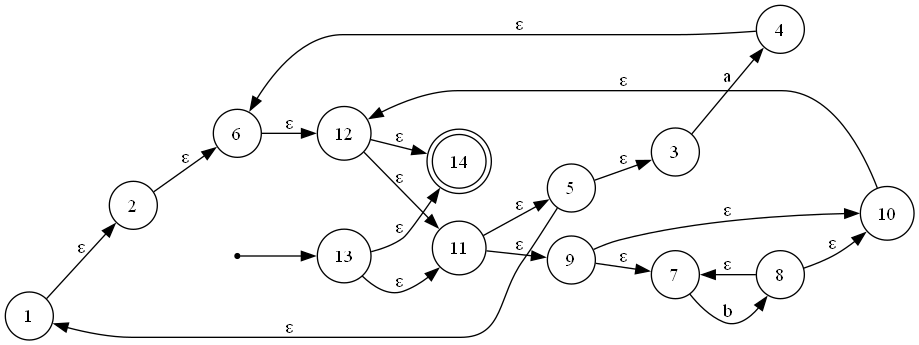
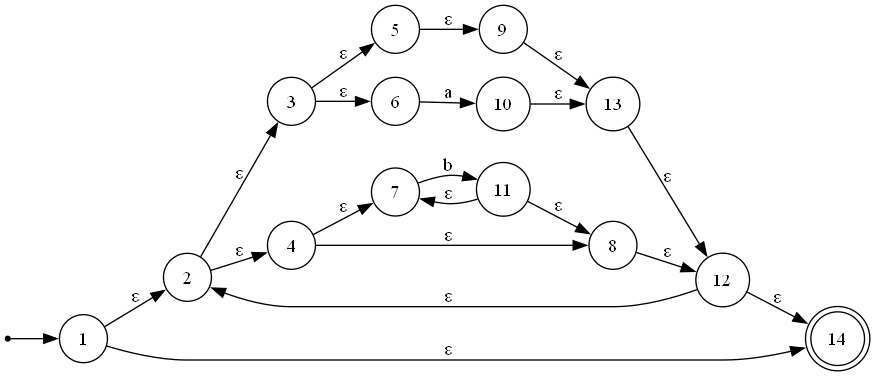
Corrección de algoritmo y validación de estados para correcta inicialización

diff --git a/lab4.py b/lab4.py
@@ -1,13 +1,15 @@
 #!/usr/bin/env python3
 """
 Infix → (desugar + ?) → insertar '.' → Shunting-Yard (postfix) →
-AST → AFN por Thompson → render árbol y AFN → simular AFN con w.
+AST → AFN por Thompson → validación/renumeración → render árbol y AFN → simular AFN con w.
 
 Uso:
     python shunting_yard_tree.py expresiones.txt [cadenas.txt]
-Genera PNGs:
-    tree_simplified_i.png, nfa_i.png
-e imprime 'sí' / 'no' para cada (r, w).
+
+Salidas por línea:
+    tree_simplified_<i>.png    (AST)
+    nfa_<i>.png                (AFN ya renumerado: start=1, accept=último)
+    consola: 'sí' / 'no'
 """
 import sys
 
@@ -19,16 +21,18 @@ def expand_plus_question(expr: str) -> str:
     i, n, out = 0, len(expr), ""
 
     def is_escaped(pos):
-        cnt, k = 0, pos-1
+        cnt, k = 0, pos - 1
         while k >= 0 and expr[k] == '\\':
-            cnt += 1; k -= 1
+            cnt += 1
+            k -= 1
         return (cnt % 2) == 1
 
     while i < n:
-        if expr[i] == '\\' and i+1 < n:          # \X
+        if expr[i] == '\\' and i + 1 < n:        # \X
             token = expr[i:i+2]; i += 2
-        elif expr[i] == '(' and not is_escaped(i):# ( ... )
-            start, depth = i, 1; i += 1
+        elif expr[i] == '(' and not is_escaped(i):  # ( ... )
+            start, depth = i, 1
+            i += 1
             while i < n and depth > 0:
                 if expr[i] == '(' and not is_escaped(i): depth += 1
                 elif expr[i] == ')' and not is_escaped(i): depth -= 1
@@ -46,54 +50,61 @@ def expand_plus_question(expr: str) -> str:
             out += token
     return out
 
+
 # ===================== Paso 1: insertar concatenación explícita '.' =========
 def insert_concatenation(expr: str):
     tokens, i = [], 0
     while i < len(expr):
-        if expr[i] == '\\' and i+1 < len(expr):
+        if expr[i] == '\\' and i + 1 < len(expr):
             tokens.append(expr[i:i+2]); i += 2
         else:
             tokens.append(expr[i]); i += 1
+
     result = []
     for j, tok in enumerate(tokens):
         if j > 0:
             prev = tokens[j-1]
-            if prev not in ['|','('] and tok not in ['|',')','*','+','?']:
+            if prev not in ['|', '('] and tok not in ['|', ')', '*', '+', '?']:
                 result.append('.')
         result.append(tok)
     return result
 
+
 # ===================== Paso 2: Shunting-Yard (infix → postfix) ==============
 def precedence(op: str):
-    if op in ('*','+','?'): return 3
-    if op == '.': return 2
-    if op == '|': return 1
+    if op in ('*', '+', '?'): return 3
+    if op == '.':             return 2
+    if op == '|':             return 1
     return 0
 
 def shunting_yard(tokens):
     output, stack, pasos = [], [], []
     for token in tokens:
-        if token.startswith('\\') or (len(token)==1 and (token.isalnum() or token in ['_','[',']','{','}','ε'])):
+        if token.startswith('\\') or (len(token) == 1 and (token.isalnum() or token in ['_', '[', ']', '{', '}', 'ε'])):
             output.append(token); pasos.append((f"operand {token}", output.copy(), stack.copy()))
         elif token == '(':
             stack.append(token); pasos.append(("push (", output.copy(), stack.copy()))
         elif token == ')':
             while stack and stack[-1] != '(':
-                op = stack.pop(); output.append(op); pasos.append(("pop for )", output.copy(), stack.copy()))
-            if stack and stack[-1]=='(':
+                op = stack.pop(); output.append(op)
+                pasos.append(("pop for )", output.copy(), stack.copy()))
+            if stack and stack[-1] == '(':
                 stack.pop(); pasos.append(("pop (", output.copy(), stack.copy()))
             else:
                 pasos.append(("ignore unmatched )", output.copy(), stack.copy()))
-        elif token in ['|','.','*','+','?']:
+        elif token in ['|', '.', '*', '+', '?']:
             while stack and precedence(stack[-1]) >= precedence(token):
                 if stack[-1] == '(': break
-                op = stack.pop(); output.append(op); pasos.append((f"pop op {op}", output.copy(), stack.copy()))
+                op = stack.pop(); output.append(op)
+                pasos.append((f"pop op {op}", output.copy(), stack.copy()))
             stack.append(token); pasos.append((f"push op {token}", output.copy(), stack.copy()))
         else:
             pasos.append((f"ignore {token}", output.copy(), stack.copy()))
     while stack:
-        op = stack.pop(); output.append(op); pasos.append((f"pop end {op}", output.copy(), stack.copy()))
+        op = stack.pop(); output.append(op)
+        pasos.append((f"pop end {op}", output.copy(), stack.copy()))
     return output, pasos
+
 
 # ===================== Paso 3: AST ==========================================
 class RegexNode:
@@ -103,13 +114,15 @@ class RegexNode:
 def build_syntax_tree(postfix_tokens):
     stack = []
     for tok in postfix_tokens:
-        if tok in ('*','+','?'):
+        if tok in ('*', '+', '?'):
             child = stack.pop(); stack.append(RegexNode(tok, left=child))
-        elif tok in ('.','|'):
-            r = stack.pop(); l = stack.pop(); stack.append(RegexNode(tok, left=l, right=r))
+        elif tok in ('.', '|'):
+            r = stack.pop(); l = stack.pop()
+            stack.append(RegexNode(tok, left=l, right=r))
         else:
             stack.append(RegexNode(tok))
     return stack.pop()
+
 
 # ===================== Paso 4: Thompson (AST → AFN) =========================
 class NFA:
@@ -172,8 +185,8 @@ def thompson_from_ast(root):
             return NFA(s, t, trans)
 
         if v == '+':   # por si no se desazucara (uno o más)
-            A = build(node.left)
             # A . A*
+            A = build(node.left)
             s1 = RegexNode('.', left=node.left, right=RegexNode('*', left=node.left))
             return build(s1)
 
@@ -189,6 +202,7 @@ def thompson_from_ast(root):
         raise ValueError(f"Operador no soportado: {v}")
 
     return build(root)
+
 
 # ===================== Paso 5: simulación de AFN ============================
 def epsilon_closure(states, transitions):
@@ -220,19 +234,118 @@ def simulate_nfa(nfa: NFA, w: str) -> bool:
     cur = epsilon_closure(cur, nfa.transitions)
     return nfa.accept in cur
 
+
+# ===================== Validación y renumeración =============================
+def _collect_states(transitions):
+    states = set(transitions.keys())
+    for lst in transitions.values():
+        for _, t in lst:
+            states.add(t)
+    return states
+
+def validate_nfa(nfa: NFA):
+    """
+    Devuelve lista de strings con advertencias/errores.
+    (No detiene ejecución; imprime en consola en la orquestación).
+    """
+    issues = []
+    T = nfa.transitions
+    states = _collect_states(T)
+
+    # 1) start/accept presentes
+    if nfa.start not in states:
+        issues.append(f"El estado inicial {nfa.start} no aparece en transiciones.")
+    if nfa.accept not in states:
+        issues.append(f"El estado de aceptación {nfa.accept} no aparece en transiciones.")
+
+    # 2) grados
+    indeg = {s: 0 for s in states}
+    outdeg = {s: 0 for s in states}
+    for s, lst in T.items():
+        outdeg[s] += len(lst)
+        for _, t in lst:
+            indeg[t] = indeg.get(t, 0) + 1
+    if indeg.get(nfa.start, 0) != 0:
+        issues.append(f"El estado inicial {nfa.start} tiene indegree={indeg.get(nfa.start, 0)} (esperado 0).")
+    if outdeg.get(nfa.accept, 0) != 0:
+        issues.append(f"El estado de aceptación {nfa.accept} tiene outdegree={outdeg.get(nfa.accept, 0)} (esperado 0).")
+
+    # 3) alcanzabilidad desde start
+    from collections import deque
+    q = deque([nfa.start])
+    seen = {nfa.start}
+    while q:
+        s = q.popleft()
+        for _, t in T.get(s, []):
+            if t not in seen:
+                seen.add(t); q.append(t)
+    unreachable = states - seen
+    if unreachable:
+        issues.append(f"Hay estados inalcanzables desde {nfa.start}: {sorted(unreachable)}")
+
+    # 4) accept alcanzable
+    if nfa.accept not in seen:
+        issues.append(f"El estado de aceptación {nfa.accept} NO es alcanzable desde {nfa.start}.")
+
+    return issues
+
+def renumber_nfa(nfa: NFA, make_accept_last: bool = True) -> NFA:
+    """
+    Renumera estados con BFS desde start para que:
+      - start -> 1
+      - (opcional) accept -> último
+    Mantiene la estructura del AFN.
+    """
+    from collections import deque
+
+    T = nfa.transitions
+    states = _collect_states(T)
+
+    # Orden BFS desde start (para layout natural)
+    q = deque([nfa.start])
+    seen = {nfa.start}
+    order = []
+    while q:
+        s = q.popleft()
+        order.append(s)
+        # orden determinista por estética (símbolo, destino)
+        for sym, t in sorted(T.get(s, []), key=lambda x: (x[0], x[1])):
+            if t not in seen:
+                seen.add(t); q.append(t)
+
+    # Si hubiera estados aislados, añadirlos al final
+    for s in sorted(states):
+        if s not in seen:
+            order.append(s)
+
+    # Forzar accept al final si se pide
+    if make_accept_last and nfa.accept in order:
+        order = [s for s in order if s != nfa.accept] + [nfa.accept]
+
+    mapping = {old: i+1 for i, old in enumerate(order)}
+
+    T2 = {}
+    for s, lst in T.items():
+        ns = mapping[s]
+        for sym, t in lst:
+            T2.setdefault(ns, []).append((sym, mapping[t]))
+
+    return NFA(start=mapping[nfa.start], accept=mapping[nfa.accept], transitions=T2)
+
+
 # ===================== Render: Árbol y AFN ==================================
 def visualize_tree(root, filename='tree'):
     dot = Digraph(format='png')
-    dot.attr(rankdir='TB')
+    dot.attr(rankdir='TB')  # raíz arriba, hojas abajo
     cnt = 0
     def visit(node):
         nonlocal cnt
         nid = f"n{cnt}"; cnt += 1
         dot.node(nid, label=node.value)
         if node.left:
-            lid = visit(node.left); dot.edge(lid, nid)
+            lid = visit(node.left); dot.edge(lid, nid)   # hijo → padre
         if node.right:
-            rid = visit(node.right); dot.edge(rid, nid)
+            rid = visit(node.right); dot.edge(rid, nid)  # hijo → padre
         return nid
     visit(root)
     dot.render(filename, cleanup=True)
@@ -241,9 +354,7 @@ def visualize_nfa(nfa: NFA, filename='nfa'):
     dot = Digraph(format='png')
     dot.attr(rankdir='LR')
     # nodos
-    states = set(nfa.transitions.keys())
-    for lst in nfa.transitions.values():
-        for _, t in lst: states.add(t)
+    states = _collect_states(nfa.transitions)
     for s in states:
         shape = 'doublecircle' if s == nfa.accept else 'circle'
         dot.node(str(s), shape=shape)
@@ -256,6 +367,7 @@ def visualize_nfa(nfa: NFA, filename='nfa'):
             label = sym if sym != ' ' else '␠'
             dot.edge(str(s), str(t), label=label)
     dot.render(filename, cleanup=True)
+
 
 # ===================== Orquestación =========================================
 def procesar_archivo(regex_path, strings_path=None):
@@ -271,16 +383,27 @@ def procesar_archivo(regex_path, strings_path=None):
             if not expr or expr.startswith('#'):
                 continue
 
+            # Parseo: desugar → concat → postfix → AST
             expr2 = expand_plus_question(expr)
             tokens = insert_concatenation(expr2)
             postfix, _ = shunting_yard(tokens)
             root = build_syntax_tree(postfix)
 
-            # Visualizaciones
+            # Visualización del AST
             visualize_tree(root, filename=f"tree_simplified_{idx}")
 
-            # Thompson + NFA
+            # Thompson → NFA (lógico)
             nfa = thompson_from_ast(root)
+
+            # Validaciones + renumeración (start=1, accept=último)
+            issues = validate_nfa(nfa)
+            if issues:
+                print("Validaciones del AFN:")
+                for msg in issues:
+                    print("  -", msg)
+            nfa = renumber_nfa(nfa, make_accept_last=True)
+
+            # Visualización del NFA renumerado
             visualize_nfa(nfa, filename=f"nfa_{idx}")
 
             # Obtener w
@@ -299,6 +422,7 @@ def procesar_archivo(regex_path, strings_path=None):
             print("¿w ∈ L(r)?    :", "sí" if ok else "no")
             print(f"Árbol: tree_simplified_{idx}.png | AFN: nfa_{idx}.png\n")
             idx += 1
+
 
 # ===================== main ==================================================
 if __name__ == '__main__':
